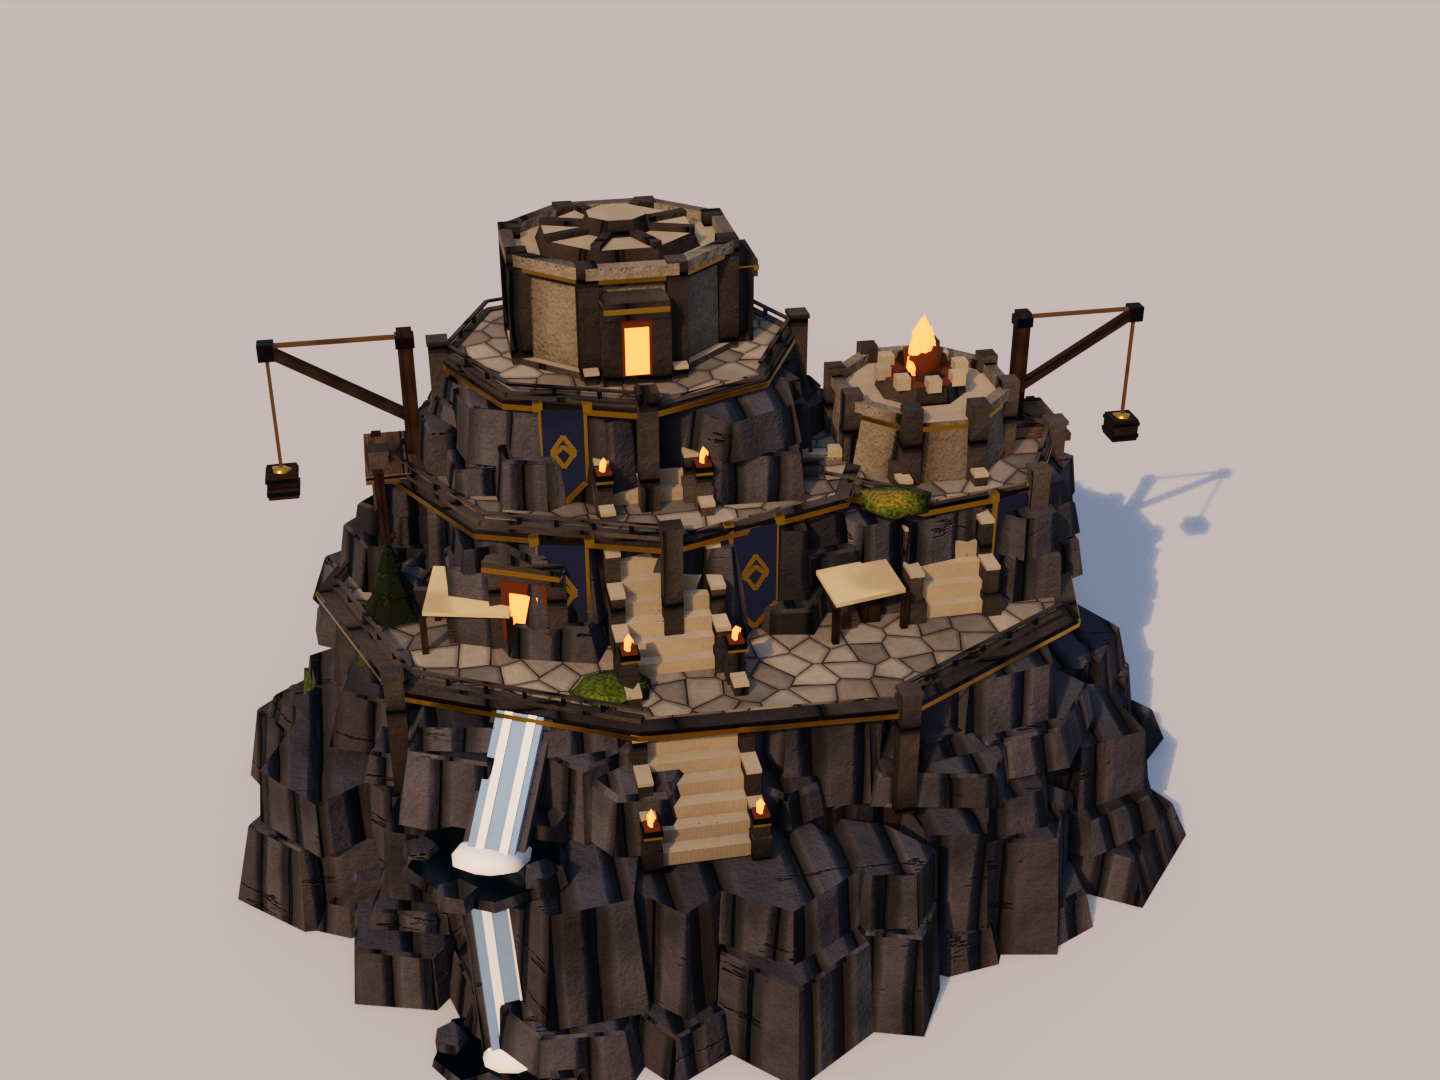
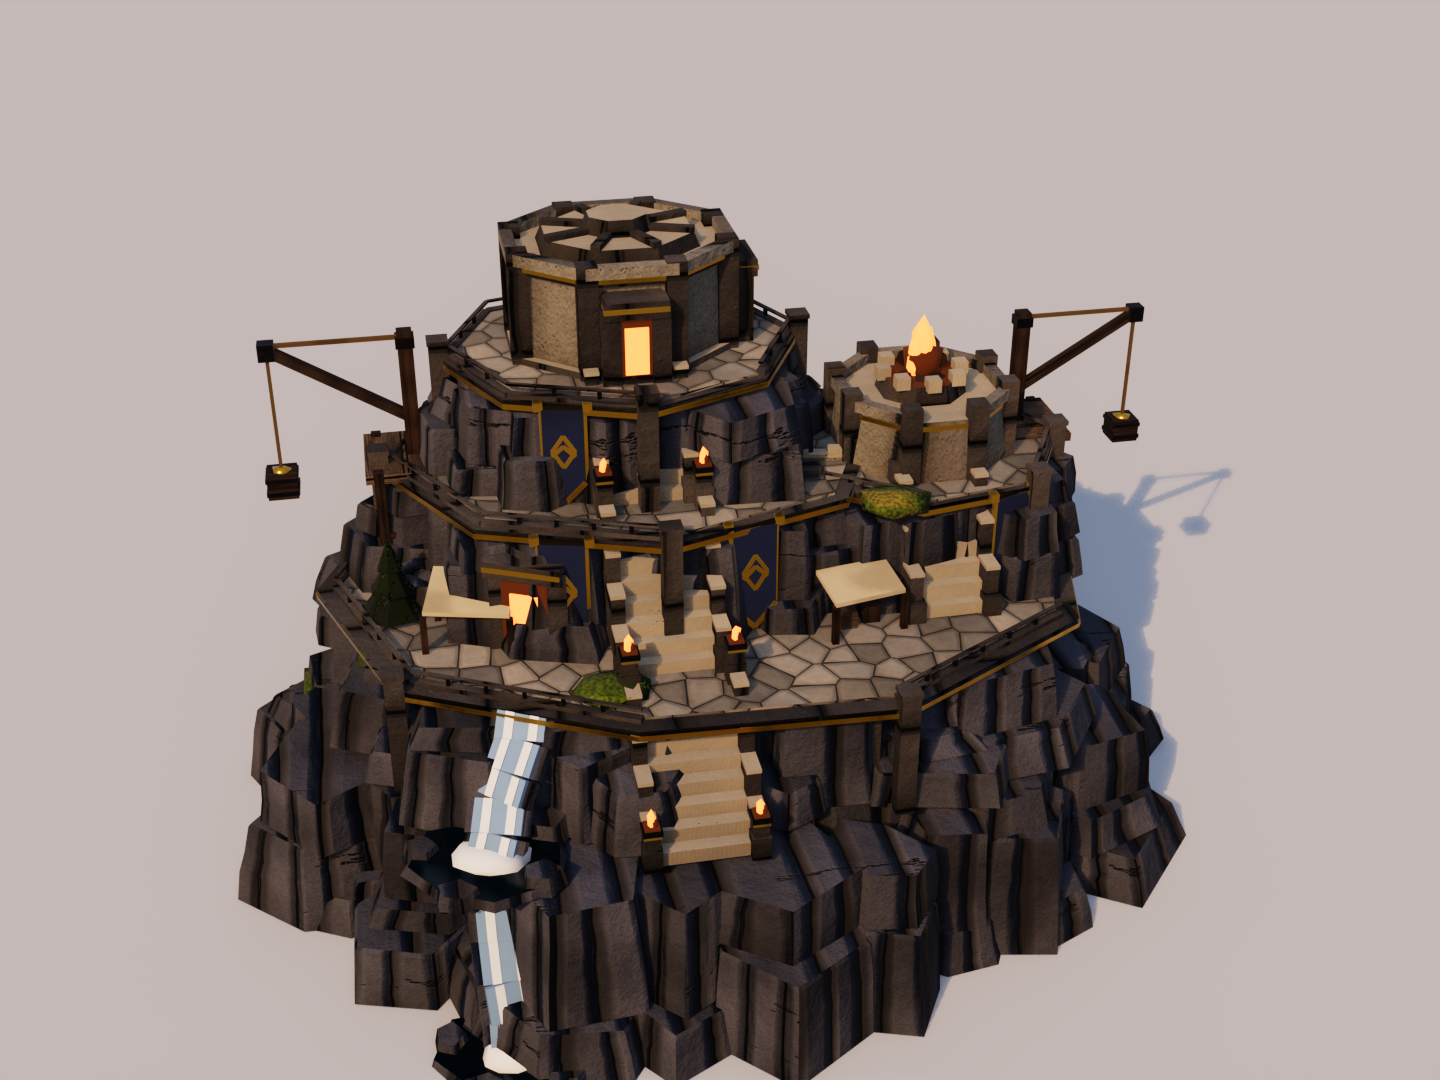
fix(towns): continuous rock texture and kinked edges on Stonehold crags
Per-face planar UVs restarted the basalt texture at every facet edge, so
it jumped between angles. Rock blocks now wrap their texture round the
block (u = arc length on the foot ring, shared by every ring so battered
tops don't shear it; v = height). Rock faces loft through jittered
intermediate rings so long edges kink instead of running ruler-straight,
neighbouring blocks take a narrower tone spread, and waterfalls wander
slightly down the crag.

diff --git a/tools/blender/medieval_town_kit/medkit/modules/stonehold_parts.py b/tools/blender/medieval_town_kit/medkit/modules/stonehold_parts.py
@@ -18,6 +18,7 @@ import random
 
 from mathutils import Matrix, Vector
 
+from .. import materials
 from ..config import detailed
 from ..mesh import MeshBuilder
 
@@ -35,19 +36,63 @@ def ring_pts(cx, cy, z, rx, ry, angles, radii_mult, tilt_x=0.0, tilt_y=0.0, rot=
     return pts
 
 
-def loft_rings(b, bot_pts, top_pts, mat, cap_bot=False, cap_top=True, cap_mat=None, tone=1.0):
+def _ring_u(pts, scale, u0):
+    """Arc length round a ring in texture units, so a wrapped texture flows across edges."""
+    us = [u0]
+    for i in range(len(pts)):
+        us.append(us[-1] + (pts[(i + 1) % len(pts)] - pts[i]).length / scale)
+    return us
+
+
+def loft_rings(b, bot_pts, top_pts, mat, cap_bot=False, cap_top=True, cap_mat=None, tone=1.0, us=None):
     n = len(bot_pts)
     centre = sum(bot_pts, Vector()) / n
+    # Rock wraps its texture round the block (u = arc length, v = height); per-face planar UVs
+    # restart at every edge and make the texture jump between facets. u is measured once (on the
+    # block's foot ring) and shared by every ring, or a battered top shears the columns diagonal.
+    wrap = mat == 'rock_cliff'
+    if wrap:
+        scale = materials.SPEC[mat].scale
+        ub = ut = us or _ring_u(bot_pts, scale, 0.0)
     for i in range(n):
         p0, p1 = bot_pts[i], bot_pts[(i + 1) % n]
         q1, q0 = top_pts[(i + 1) % n], top_pts[i]
         mid = (p0 + p1 + q0 + q1) * 0.25
         out = Vector((mid.x - centre.x, mid.y - centre.y, 0.15))
-        b.poly([p0, p1, q1, q0], mat, outward=out, tone=tone)
+        uvs = None
+        if wrap:
+            uvs = [(ub[i], p0.z / scale), (ub[i + 1], p1.z / scale),
+                   (ut[i + 1], q1.z / scale), (ut[i], q0.z / scale)]
+        b.poly([p0, p1, q1, q0], mat, outward=out, tone=tone, uvs=uvs)
     if cap_bot:
         b.poly(list(reversed(bot_pts)), mat, outward=(0, 0, -1), tone=tone * 0.75)
     if cap_top:
         b.poly(top_pts, cap_mat or mat, outward=(0, 0, 1), tone=tone * 0.98)
+
+
+def _kinked_loft(b, bot, end, mat, rng, rx, tone, us, cap_top, cap_mat):
+    """Loft bot -> end through jittered intermediate rings, so a rock face's long edges kink
+    and bulge like fractured stone instead of running ruler-straight."""
+    h = end[0].z - bot[0].z
+    n_mid = 0 if not detailed() else min(2, int(h / 0.18))
+    bulge = min(rx, 0.18)  # big massifs get the same few-cm kinks as ribs, not terraces
+    centre = sum(bot, Vector()) / len(bot)
+    rings = [bot]
+    for k in range(1, n_mid + 1):
+        t = k / (n_mid + 1) + rng.uniform(-0.08, 0.08) / (n_mid + 1)
+        ring = []
+        for p, q in zip(bot, end):
+            v = p.lerp(q, t)
+            radial = Vector((v.x - centre.x, v.y - centre.y, 0.0))
+            if radial.length > 1e-6:
+                v = v + radial.normalized() * bulge * rng.uniform(-0.05, 0.07)
+            ring.append(v + Vector((0, 0, rng.uniform(-0.12, 0.12) * h / (n_mid + 1))))
+        rings.append(ring)
+    rings.append(end)
+    for k in range(len(rings) - 1):
+        last = k == len(rings) - 2
+        loft_rings(b, rings[k], rings[k + 1], mat, cap_bot=False, cap_top=cap_top and last,
+                   cap_mat=cap_mat, tone=tone, us=us)
 
 
 def crag_block(b, cx, cy, z0, z1, rx, ry, seed=1, sides=7, mat='rock_cliff',
@@ -63,18 +108,20 @@ def crag_block(b, cx, cy, z0, z1, rx, ry, seed=1, sides=7, mat='rock_cliff',
     tone_val = rng.uniform(0.70, 0.96) if tone is None else tone
 
     bot = ring_pts(cx, cy, z0, rx, ry, angles, rm_bot, rot=rot)
+    us = _ring_u(bot, materials.SPEC[mat].scale, rng.uniform(0.0, 1.0)) if mat == 'rock_cliff' else None
     if detailed() and chamfer > 0.005 and (z1 - z0) > chamfer * 2.5 and min(rx, ry) > chamfer * 3.0:
         z_ch = z1 - chamfer
         mid = ring_pts(cx, cy, z_ch, rx, ry, angles, rm_mid, tilt_x=tilt_x, tilt_y=tilt_y, rot=rot)
         ch_scale = max(0.65, 1.0 - chamfer / max(0.20, min(rx, ry)))
         rm_top = [r * ch_scale for r in rm_mid]
         top = ring_pts(cx, cy, z1, rx, ry, angles, rm_top, tilt_x=tilt_x, tilt_y=tilt_y, rot=rot)
-        loft_rings(b, bot, mid, mat, cap_bot=False, cap_top=False, tone=tone_val)
+        _kinked_loft(b, bot, mid, mat, rng, min(rx, ry), tone_val, us, False, None)
         loft_rings(b, mid, top, cap_mat or mat, cap_bot=False, cap_top=True,
-                   cap_mat=cap_mat or mat, tone=tone_val * 0.96)
+                   cap_mat=cap_mat or mat, tone=tone_val * 0.96,
+                   us=us if (cap_mat or mat) == mat else None)
     else:
         top = ring_pts(cx, cy, z1, rx, ry, angles, rm_mid, tilt_x=tilt_x, tilt_y=tilt_y, rot=rot)
-        loft_rings(b, bot, top, mat, cap_bot=False, cap_top=True, cap_mat=cap_mat or mat, tone=tone_val)
+        _kinked_loft(b, bot, top, mat, rng, min(rx, ry), tone_val, us, True, cap_mat or mat)
 
 
 def rock_spire(b, base_pt, tip_pt, rx, ry, seed=1, mat='rock_cliff',
@@ -149,7 +196,7 @@ def jagged_cliff_tier(b, cx, cy, z0, z1, rx, ry, seed=1, ribs=20,
             rib_z1 = z1 - rng.uniform(0.060, 0.100)
         else:
             rib_z1 = z1 - rng.uniform(0.01, 0.14 * (z1 - z0))
-        tone_choice = rng.uniform(0.68, 0.98)
+        tone_choice = rng.uniform(0.80, 0.94)
         # Break each column into 1-3 stacked blocks, wider and further out toward the foot,
         # so the face reads as fractured crag with ledges rather than a palisade of posts.
         n_seg = 1 if in_open or not detailed() or (rib_z1 - z0) < 0.26 else rng.choice((2, 2, 3))
@@ -167,7 +214,7 @@ def jagged_cliff_tier(b, cx, cy, z0, z1, rx, ry, seed=1, ribs=20,
                        mat='rock_cliff', cap_mat='rock_cliff',
                        batter=rng.uniform(0.82, 0.93), chamfer=0.0 if top_seg else 0.014,
                        tilt_x=tilt * math.cos(a), tilt_y=tilt * math.sin(a),
-                       rot=a + rng.uniform(-0.3, 0.3), tone=tone_choice * rng.uniform(0.9, 1.06))
+                       rot=a + rng.uniform(-0.3, 0.3), tone=tone_choice * rng.uniform(0.96, 1.03))
             if not top_seg and rng.random() < 0.22:
                 moss_tuft(b, cx + rx * (seg_dist + 0.02) * math.cos(a),
                           cy + ry * (seg_dist + 0.02) * math.sin(a), bounds[k + 1],
@@ -814,10 +861,12 @@ def waterfall_cascade(b, p_top, p_bot, width=0.26, seed=1):
     p1 = Vector(p_bot)
 
     segs = 5 if detailed() else 3
+    # Interior points wander sideways so the fall follows the crag instead of a ruler line.
+    wrng = random.Random(seed + 7)
+    pts = [p0.lerp(p1, k / segs) + (Vector((wrng.uniform(-1, 1), wrng.uniform(-1, 1), 0.0)) * width * 0.08
+                                    if 0 < k < segs else Vector()) for k in range(segs + 1)]
     for k in range(segs):
-        t0, t1 = k / segs, (k + 1) / segs
-        c0 = p0.lerp(p1, t0)
-        c1 = p0.lerp(p1, t1)
+        c0, c1 = pts[k], pts[k + 1]
         # Note: in b.beam(..., (0,0,1), side_range, width, mat),
         # `side_range` is vertical thickness and `width` is horizontal chute width!
         b.beam((c0.x, c0.y, c0.z), (c1.x, c1.y, c1.z),
